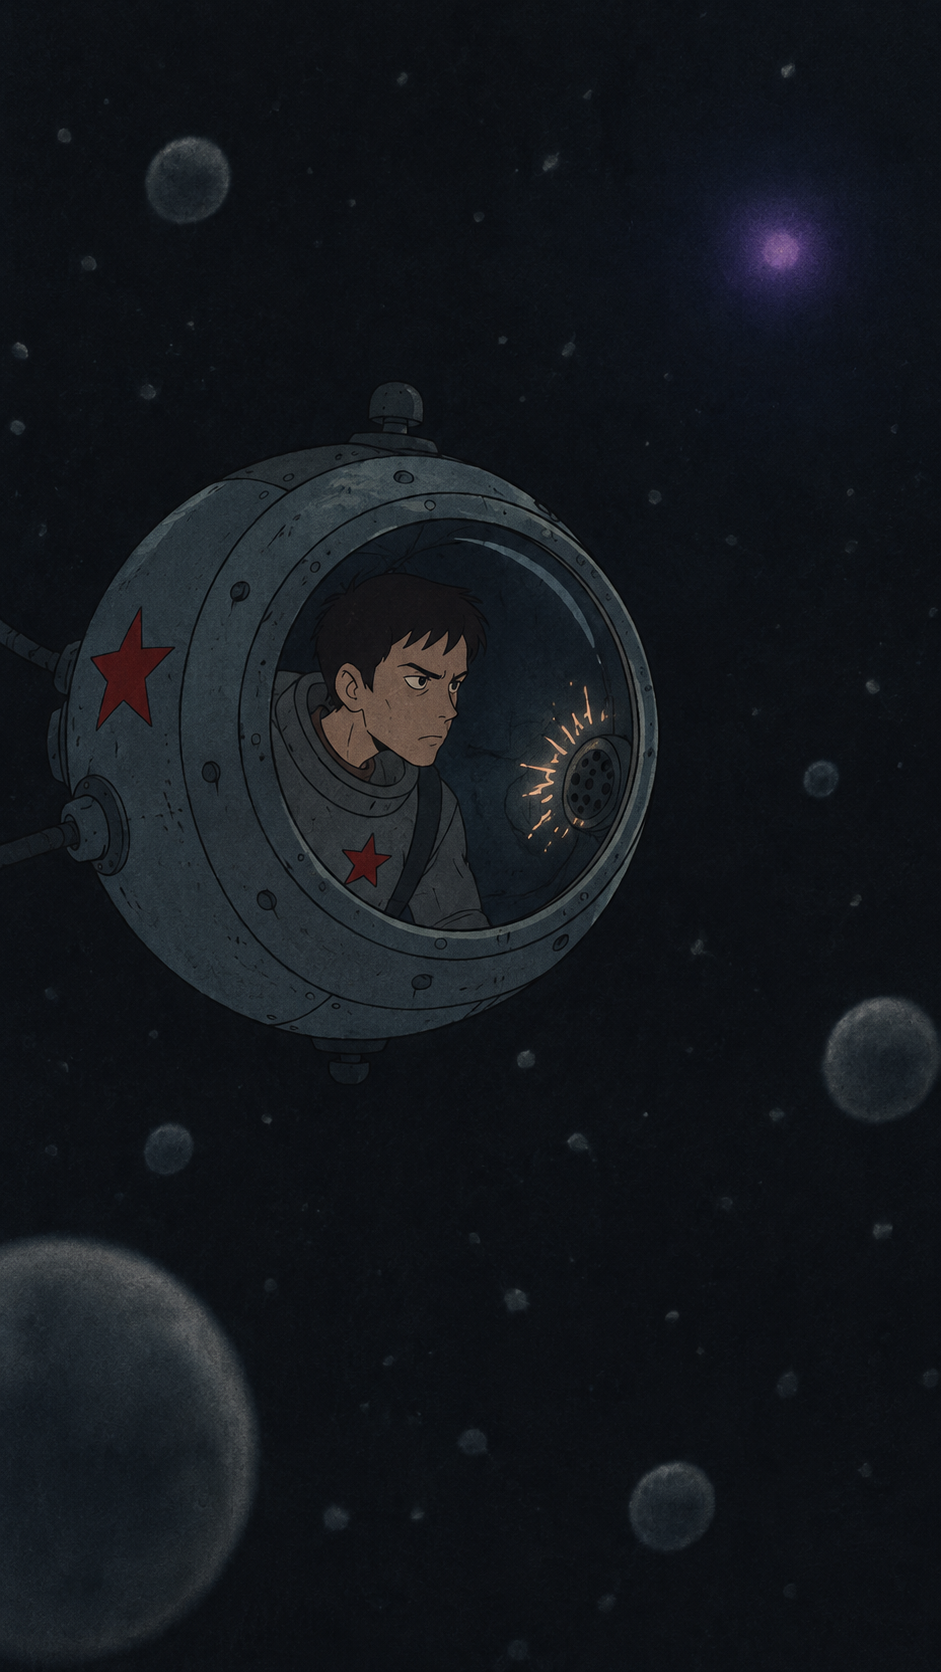
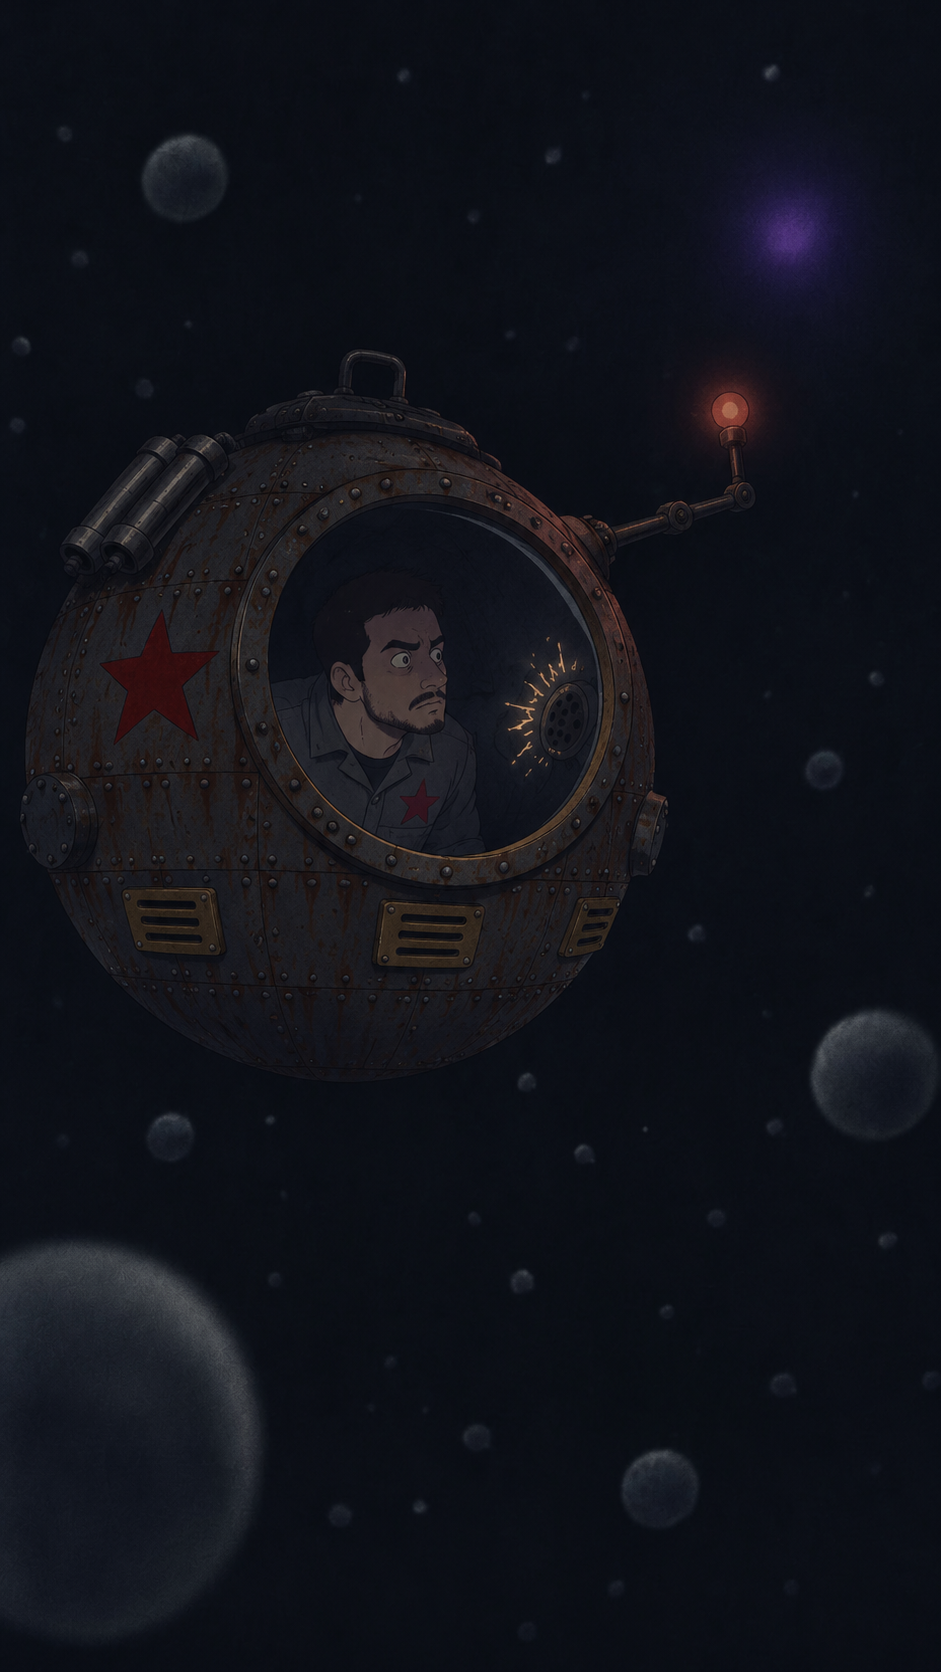
Prologue frame 3: a new picture in the style of frames 1 and 2 (intermediate, the face is to be redone)
The rusty riveted capsule with one arm and a small glowing ball, Yurik in the
window, the speaker with sparks, the dim grey spheres and the violet glow far
away - the composition and the darkness of the old frame are kept. The crop is
shifted so that the violet glow stays in view. The face is not final: the
expression is wrong and Yurik should look younger.

diff --git a/Fermentino/App/PrologueView.swift b/Fermentino/App/PrologueView.swift
@@ -19,7 +19,7 @@ struct PrologueView: View {
     private let frames: [(image: String?, key: String, anchor: Alignment, shift: CGFloat)] = [
         ("prologue1", "prologue.1", .leading, -18),   // слева остаются профессор и его рука целиком
         ("prologue2", "prologue.2", .center, 0),      // по центру: справа виден ассистент у чертежа
-        ("prologue3", "prologue.3", .leading, -18),
+        ("prologue3", "prologue.3", .leading, -30),   // капсула слева почти целиком, справа виден огонёк поглотителя
         (nil, "prologue.tagline", .center, 0),
     ]
 
